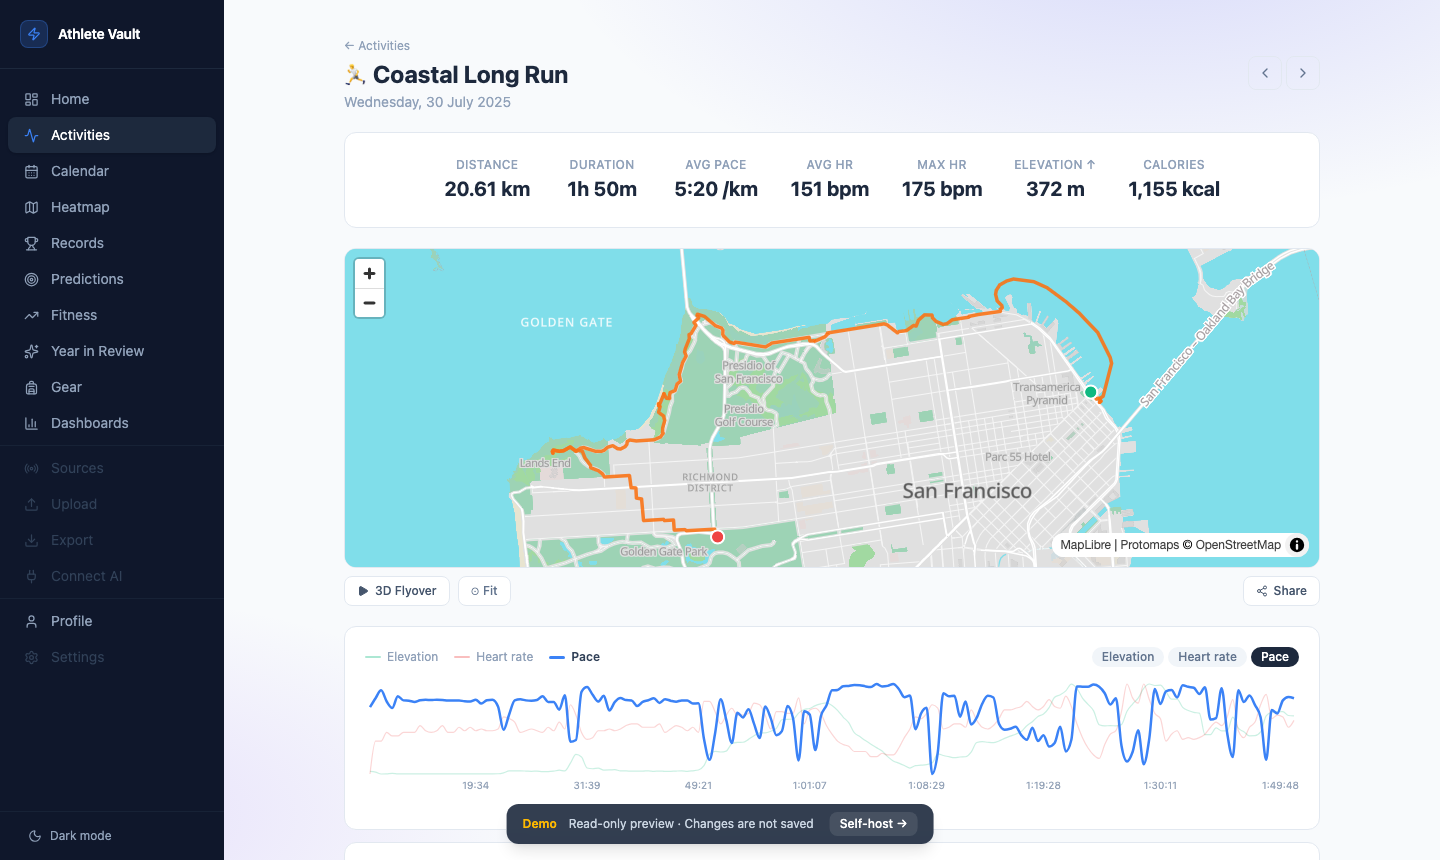
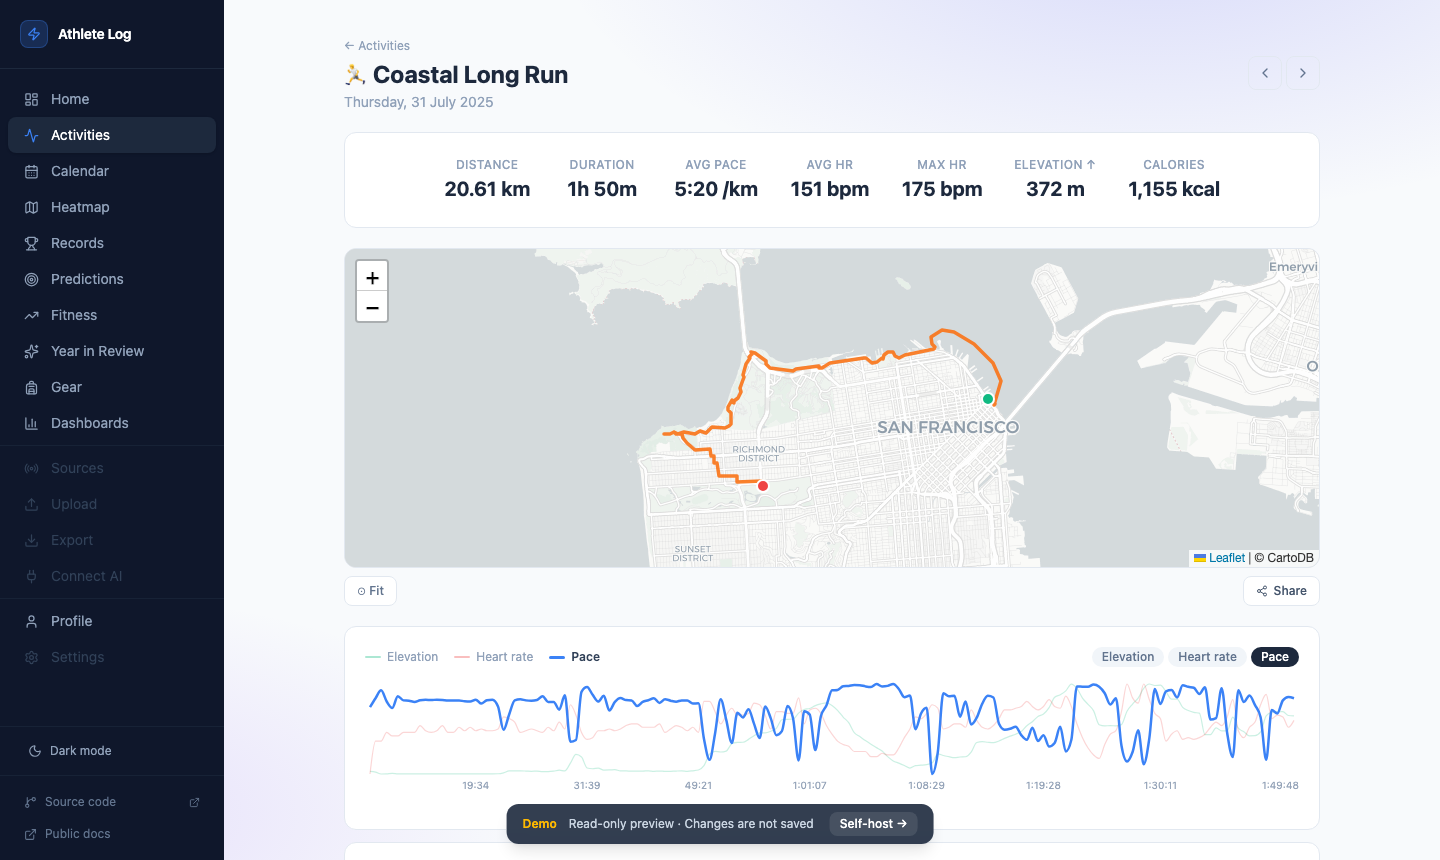
Fix README placeholders, regenerate screenshots, guard Docker push
- README: remove <your-org> placeholders and internal planning links,
  restore full value-prop content, point badges/links at nowakkuba99/athlete-log
- Screenshots: regenerate all four with the Athlete Log brand
- Docker workflow: only log in and push on version tags so main pushes
  no longer fail on missing Docker Hub secrets (branch pushes build-only)

diff --git a/README.md b/README.md
@@ -1,77 +1,88 @@
-# Athlete Log
+<div align="center">
 
-Private fitness analytics you can run on your own machine.
+<img src="docs/assets/logo.svg" alt="Athlete Log" width="80" height="80"/>
 
-Own your training history. No subscription required to run the core app. No cloud lock-in. No data mining.
+## Athlete Log
 
-[![CI](https://github.com/<your-org>/athlete-log/actions/workflows/ci.yml/badge.svg?branch=main)](https://github.com/<your-org>/athlete-log/actions/workflows/ci.yml)
+**Your fitness data, stored on your machine.**  
+No subscription. No cloud lock-in. No data mining.
+
+[![CI](https://github.com/nowakkuba99/athlete-log/actions/workflows/ci.yml/badge.svg?branch=main)](https://github.com/nowakkuba99/athlete-log/actions/workflows/ci.yml)
 [![Docker](https://img.shields.io/badge/Docker-Hub-2496ED?style=flat-square&logo=docker&logoColor=white)](https://hub.docker.com/r/jakenowak99/athlete-log)
 [![License: AGPLv3%2B](https://img.shields.io/badge/License-AGPLv3%2B-6366f1?style=flat-square)](LICENSE)
 
-[Docs](docs/setup.md) · [Sources](docs/sources.md) · [Security](docs/security.md) · [Docker Hub](https://hub.docker.com/r/jakenowak99/athlete-log)
+[Setup](docs/setup.md) · [Sources](docs/sources.md) · [Features](docs/features.md) · [Security](docs/security.md) · [Docker Hub](https://hub.docker.com/r/jakenowak99/athlete-log)
+
+</div>
+
+---
 
 | | |
 |:---:|:---:|
-| ![Activities](docs/assets/screenshots/activities.png) | ![Fitness](docs/assets/screenshots/fitness.png) |
+| ![Activities](docs/assets/screenshots/activities.png) | ![Fitness PMC](docs/assets/screenshots/fitness.png) |
 | ![Activity detail](docs/assets/screenshots/activity-detail.png) | ![Heatmap](docs/assets/screenshots/heatmap.png) |
+
+---
 
 ## Quick start
 
 Requires [Docker](https://docs.docker.com/get-docker/).
 
 ```sh
-git clone https://github.com/<your-org>/athlete-log
+git clone https://github.com/nowakkuba99/athlete-log
 cd athlete-log
 docker compose up
 ```
 
-Open `http://127.0.0.1:8080`.
+Open **http://127.0.0.1:8080**. The app starts with a local SQLite database by default; Postgres is optional for advanced self-hosting.
 
-The app starts with a local SQLite database by default. PostgreSQL remains optional for advanced self-hosting.
+See [Setup](docs/setup.md) for pulling the pre-built image and running from a standalone `docker-compose.yml`.
 
-## What it includes
+---
 
-- Performance Management Chart: CTL, ATL, and TSB
-- GPS heatmap
-- Activity detail with map and charts
-- Personal records
-- Training calendar
-- Custom dashboards
-- Year in Review
-- Built-in MCP server for AI tools
+## What's inside
 
-## Data sources
+- **Performance Management Chart** — CTL, ATL, and TSB via Banister TRIMP; the fitness/fatigue model serious athletes rely on
+- **GPS heatmap** — every route overlaid on one map
+- **Activity detail** — GPS map, pace/HR/elevation/cadence charts, auto splits, weather chip, comparable efforts, 3D flyover, share card
+- **Personal records** — best efforts from 400 m to marathon with progression charts
+- **Training calendar** — monthly grid coloured by sport; streak overlay
+- **Custom dashboards** — drag-and-resize widgets; set any dashboard as your home page
+- **Year in Review** — auto-generated annual summary
+- **Built-in MCP server** — connect Claude or other AI tools to your local training data
 
-- FIT / GPX / TCX file upload
-- Watched local folder
-- Nike Run Club token import
-- Strava OAuth sync when API access is available
+---
+
+## Getting your data in
+
+| Source | How |
+|---|---|
+| FIT / GPX / TCX | Upload page — drag and drop, any GPS device |
+| Watched folder | Sources → watch a local path (picks up Garmin Express files automatically) |
+| Nike Run Club | Sources → paste your NRC bearer token |
+| Strava | Requires Strava API access. Settings → Client ID & Secret → Sources → Connect |
+
+No Strava API access? Use Strava's [bulk GDPR export](https://support.strava.com/hc/en-us/articles/216918437) — drag the FIT/GPX files onto the Upload page and your full history is imported.
+
+---
+
+## Stack
+
+Go 1.23 · SQLite by default · PostgreSQL optional · React 18 · Tailwind CSS · Recharts · MapLibre GL · Docker Compose
+
+---
 
 ## Documentation
 
-- [Setup](docs/setup.md)
-- [Connecting sources](docs/sources.md)
-- [Features](docs/features.md)
-- [Security](docs/security.md)
+- [Setup](docs/setup.md) — install, configuration, deployment
+- [Connecting sources](docs/sources.md) — files, watched folders, Nike Run Club, Strava
+- [Features](docs/features.md) — full feature reference
+- [Security](docs/security.md) — self-hosting and data-handling guidance
 
-## Release model
-
-This repository is intended to be the canonical open source codebase for Athlete Log:
-
-- GitHub Releases for tagged versions
-- Docker image publishing
-- technical docs for install, configuration, sources, and security
-- the source of truth for the self-hosted app
+---
 
 ## License and trademark
 
-Licensed under [AGPL-3.0-or-later](LICENSE).
+[AGPLv3 or later](LICENSE) — built for athletes who believe their data belongs to them.
 
 See [TRADEMARKS.md](TRADEMARKS.md) for branding and naming rules around forks, hosted services, and commercial distributions.
-
-## Repository notes
-
-- [Rename Plan](RENAME_PLAN.md)
-- [Public Repo Layout](PUBLIC_REPO_LAYOUT.md)
-- [Private Repo Plan](../private-repo/README.md)
-- [Video Backlog](../private-repo/VIDEO_BACKLOG.md)
